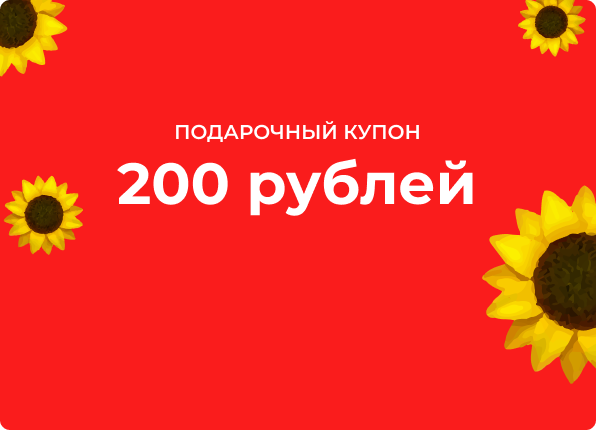
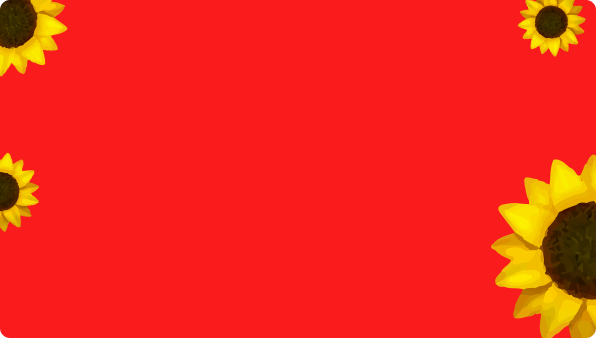
Замена банеров в 1 и 2 письмах

diff --git a/1/index.html b/1/index.html
@@ -3,9 +3,6 @@
 <head>
 	<meta http-equiv="Content-Type" content="text/html" charset="UTF-8">
 	<title>Podsolnuhh</title>
-	<style type="text/css">
-		/** {outline: 1px solid red;}*/
-	</style>
 </head>
 <body style="margin:0; padding:0;">
 	<table class="table_main" cellpadding="0" cellspacing="0" border="0" width="100%" background="http://sbweb.ru/podsolnuhh/body_bg.png" style=" margin:0; padding:0; background: #ffffff; background-image: url('http://sbweb.ru/podsolnuhh/body_bg.png'); background-repeat: no-repeat; -webkit-background-size: cover;
@@ -34,7 +31,7 @@
 						<td align="center" valign="top">
 							<table class="table_accost" cellpadding="0" cellspacing="0" border="0" width="100%" style="margin:0; padding:0; max-width: 100%; min-width: 100%; background: #ffffff; font-size: 16px;">
 								<tr>
-									<td width="35" style="width: 35px; max-width: 35px; min-width: 35px;">&nbsp;</td>
+									<td width="30" style="width: 30px; max-width: 30px; min-width: 30px;">&nbsp;</td>
 									<td width="380" style="width: 380px; max-width: 380px; min-width: 380px;">
 										<div height="20" style="height: 20px; line-height: 20px; font-size: 17px;">&nbsp;</div>
 										<p style="margin:0; padding:0; font-size: 18px; line-height: 137%; color: #435155; font-weight: 600; font-family: Arial, Tahoma, Geneva, sans-serif; ">Николай Атрашеквич, спасибо за покупку в нашем Интернет-магазине!</p>
@@ -44,19 +41,19 @@
 										<table cellpadding="0" cellspacing="0" border="0" width="280" style="margin:0; padding:0; max-width: 100%; min-width: 100%; background: #ffffff; font-size: 16px;">
 											<tr>
 												<td width="45" style="width: 45px; max-width: 45px; min-width: 45px;">
-													<a href="#" target="_blank">
+													<a href="https://podsolnuhh.ru/" target="_blank">
 														<img src="http://sbweb.ru/podsolnuhh/smile_badly.png" alt="Плохо" width="45" height="45" border="0" style="display: block; width: 45px; max-width: 45px; height: 45px">
 													</a>
 												</td>
 												<td width="20" style="width: 20px; max-width: 20px; min-width: 20px;">&nbsp;</td>
 												<td width="45" style="width: 45px; max-width: 45px; min-width: 45px;">
-													<a href="#" target="_blank">
+													<a href="https://podsolnuhh.ru/" target="_blank">
 														<img src="http://sbweb.ru/podsolnuhh/smile_normally.png" alt="Нормально" width="45" height="45" border="0" style="display: block; width: 45px; max-width: 45px; height: 45px">
 													</a>
 												</td>
 												<td width="20" style="width: 20px; max-width: 20px; min-width: 20px;">&nbsp;</td>
 												<td width="45" style="width: 45px; max-width: 45px; min-width: 45px;">
-													<a href="#" target="_blank">
+													<a href="https://podsolnuhh.ru/" target="_blank">
 														<img src="http://sbweb.ru/podsolnuhh/smile_fine.png" alt="Отлично" width="45" height="45" border="0" style="display: block; width: 45px; max-width: 45px; height: 45px">
 													</a>
 												</td>
@@ -72,15 +69,18 @@
 					</tr>
 					<tr>
 						<td align="center" valign="top">
-							<table class="table_coupon" cellpadding="0" cellspacing="0" border="0" width="100%" background="http://sbweb.ru/podsolnuhh/coupon_bg.png" style="margin:0; padding:0; max-width: 100%; min-width: 100%; border-radius: 7px; background: #fa1c1c; background-image: url('http://sbweb.ru/podsolnuhh/coupon_bg.png'); background-repeat: no-repeat; -webkit-background-size: cover; background-size: cover; font-size: 16px;">
+							<table class="table_coupon" cellpadding="0" cellspacing="0" border="0" width="100%" background="coupon_bg.png" style="margin:0; padding:0; max-width: 100%; min-width: 100%; border-radius: 7px; background-color: #fa1c1c; background-image: url('coupon_bg.png'); background-repeat: no-repeat; -webkit-background-size: cover; background-size: cover; font-size: 16px;">
 								<tr>
-									<td width="35" style="width: 35px; max-width: 35px; min-width: 35px;">&nbsp;</td>
-									<td>
-										<div height="305" style="height: 305px; line-height: 305px; font-size: 17px;">&nbsp;</div>
-										<p style="margin:0; padding:0; font-size: 16px; line-height: 18px; color: #ffffff; font-weight: 400; font-family: Arial, Tahoma, Geneva, sans-serif; ">Просто введите промо-код при оформлении заказа</p>
+									<td align="center" valign="top">
+										<div height="53" style="height: 53px; line-height: 53px; font-size: 17px;">&nbsp;</div>
+										<p style="margin:0; padding:0; font-size: 20px; line-height: 24px; color: #ffffff; font-weight: 600; text-transform: uppercase; text-align: center; font-family: Montserrat, Arial, Tahoma, Geneva, sans-serif; ">Подарочный купон</p>
+										<p style="margin:0; padding:0; font-size: 58px; line-height: 80px; color: #ffffff; font-weight: 600; text-transform: uppercase; text-align: center; font-family: Montserrat, Arial, Tahoma, Geneva, sans-serif; ">200 рублей</p>
+										<div height="21" style="height: 21px; line-height: 21px; font-size: 17px;">&nbsp;</div>
+										<p style="margin:0; padding:0; font-size: 20px; line-height: 138%; color: #ffffff; font-weight: 400; text-align: center; font-family: Arial, Tahoma, Geneva, sans-serif; ">Просто введите промо-код при <br> оформлении заказа</p>
 										<div height="20" style="height: 20px; line-height: 20px; font-size: 17px;">&nbsp;</div>	
 										<table cellpadding="0" cellspacing="0" border="0" width="100%" style="margin:0; padding:0; max-width: 100%; min-width: 100%; font-size: 16px;">
 											<tr>
+												<td width="120" style="width: 120px; max-width: 120px; min-width: 120px;">&nbsp;</td>
 												<td width="170" style="width: 170px; max-width: 170px; min-width: 170px;">
 													<p height="36" bgcolor="#ffffff" style="margin:0; padding:0; height: 36px; line-height: 36px; font-family: Arial, Tahoma, Geneva, sans-serif; font-size: 20px; color: #00b1e8; text-align: center; background-color: #ffffff; border-radius: 6px;">25 82 54 25 14</p>
 												</td>
@@ -93,16 +93,15 @@
 												<td></td>
 											</tr>
 										</table>
-										<div height="55" style="height: 55px; line-height: 55px; font-size: 17px;">&nbsp;</div>	
+										<div height="50" style="height: 50px; line-height: 50px; font-size: 17px;">&nbsp;</div>	
 									</td>
-									<td></td>
 								</tr>
 							</table>
 						</td>
 					</tr>
 					<tr>
 						<td align="center" valign="top">
-							<div height="35" style="height: 35px; line-height: 35px; font-size: 17px;">&nbsp;</div>
+							<div height="40" style="height: 40px; line-height: 40px; font-size: 17px;">&nbsp;</div>
 							<table cellpadding="0" cellspacing="0" border="0" width="100%" style="margin:0; padding:0; max-width: 100%; min-width: 100%; background: #ffffff; font-size: 16px;">
 								<tr>
 									<td width="35" style="width: 35px; max-width: 35px; min-width: 35px;">&nbsp;</td>

diff --git a/2/index.html b/2/index.html
@@ -3,9 +3,6 @@
 <head>
 	<meta http-equiv="Content-Type" content="text/html" charset="UTF-8">
 	<title>Podsolnuhh</title>
-	<style type="text/css">
-		/** {outline: 1px solid red;}*/
-	</style>
 </head>
 <body style="margin:0; padding:0;">
 	<table class="table_main" cellpadding="0" cellspacing="0" border="0" width="100%" background="http://sbweb.ru/podsolnuhh/body_bg.png" style=" margin:0; padding:0; background: #ffffff; background-image: url('http://sbweb.ru/podsolnuhh/body_bg.png'); background-repeat: no-repeat; -webkit-background-size: cover;
@@ -54,12 +51,14 @@
 					</tr>
 					<tr>
 						<td align="center" valign="top">
-							<table class="table_coupon" cellpadding="0" cellspacing="0" border="0" width="100%" background="coupon_bg.png" style="margin:0; padding:0; max-width: 100%; min-width: 100%; background: #9ac2ff; background-image: url('coupon_bg.png'); background-repeat: no-repeat; -webkit-background-size: cover; background-size: cover; font-size: 16px;">
+							<table class="table_coupon" cellpadding="0" cellspacing="0" border="0" width="100%" background="coupon_bg1.png" style="margin:0; padding:0; max-width: 100%; min-width: 100%; border-radius: 6px; background-color: #9ac2ff; background-image: url('coupon_bg.png'); background-repeat: no-repeat; -webkit-background-size: cover; background-size: cover; font-size: 16px;">
 								<tr>
-									<td width="35" style="width: 35px; max-width: 35px; min-width: 35px;">&nbsp;</td>
-									<td>
-										<div height="315" style="height: 315px; line-height: 315px; font-size: 17px;">&nbsp;</div>
-										<p style="margin:0; padding:0; font-size: 16px; line-height: 18px; color: #ffffff; font-weight: 400; font-family: Arial, Tahoma, Geneva, sans-serif; ">Просто введите промо-код при оформлении заказа</p>
+									<td width="30" style="width: 30px; max-width: 30px; min-width: 30px;">&nbsp;</td>
+									<td width="350" style="width: 350px; max-width: 350px; min-width: 350px;">
+										<div height="45" style="height: 45px; line-height: 45px; font-size: 17px;">&nbsp;</div>
+										<img src="coupon_image.png" alt="На следующий заказ дарим скидку 200 рублей"  style="margin:0; padding:0; font-size: 25px; letter-spacing: 1px; line-height: 36px; color: #ffffff; font-weight: 500; text-transform: uppercase; text-align: center; font-family: Oswald, Arial, Tahoma, Geneva, sans-serif; ">
+										<div height="20" style="height: 20px; line-height: 20px; font-size: 17px;">&nbsp;</div>
+										<p style="margin:0; padding:0; font-size: 20px; line-height: 138%; color: #ffffff; font-weight: 400; font-family: Arial, Tahoma, Geneva, sans-serif; ">Просто введите промо-код при оформлении заказа</p>
 										<div height="20" style="height: 20px; line-height: 20px; font-size: 17px;">&nbsp;</div>	
 										<table cellpadding="0" cellspacing="0" border="0" width="100%" style="margin:0; padding:0; max-width: 100%; min-width: 100%; font-size: 16px;">
 											<tr>
@@ -75,7 +74,7 @@
 												<td></td>
 											</tr>
 										</table>
-										<div height="60" style="height: 60px; line-height: 60px; font-size: 17px;">&nbsp;</div>	
+										<div height="50" style="height: 50px; line-height: 50px; font-size: 17px;">&nbsp;</div>	
 									</td>
 									<td></td>
 								</tr>

diff --git a/10/index.html b/10/index.html
@@ -3,9 +3,6 @@
 <head>
 	<meta http-equiv="Content-Type" content="text/html" charset="UTF-8">
 	<title>Podsolnuhh</title>
-	<style type="text/css">
-		/** {outline: 1px solid red;}*/
-	</style>
 </head>
 <body style="margin:0; padding:0;">
 	<table class="table_main" cellpadding="0" cellspacing="0" border="0" width="100%" background="http://sbweb.ru/podsolnuhh/body_bg.png" style=" margin:0; padding:0; background: #ffffff; background-image: url('http://sbweb.ru/podsolnuhh/body_bg.png'); background-repeat: no-repeat; -webkit-background-size: cover;

diff --git a/3/index.html b/3/index.html
@@ -3,9 +3,6 @@
 <head>
 	<meta http-equiv="Content-Type" content="text/html" charset="UTF-8">
 	<title>Podsolnuhh</title>
-	<style type="text/css">
-		/** {outline: 1px solid red;}*/
-	</style>
 </head>
 <body style="margin:0; padding:0;">
 	<table class="table_main" cellpadding="0" cellspacing="0" border="0" width="100%" background="http://sbweb.ru/podsolnuhh/body_bg.png" style=" margin:0; padding:0; background: #ffffff; background-image: url('http://sbweb.ru/podsolnuhh/body_bg.png'); background-repeat: no-repeat; -webkit-background-size: cover;

diff --git a/4/index.html b/4/index.html
@@ -3,9 +3,6 @@
 <head>
 	<meta http-equiv="Content-Type" content="text/html" charset="UTF-8">
 	<title>Podsolnuhh</title>
-	<style type="text/css">
-		/** {outline: 1px solid red;}*/
-	</style>
 </head>
 <body style="margin:0; padding:0;">
 	<table class="table_main" cellpadding="0" cellspacing="0" border="0" width="100%" background="http://sbweb.ru/podsolnuhh/body_bg.png" style=" margin:0; padding:0; background: #ffffff; background-image: url('http://sbweb.ru/podsolnuhh/body_bg.png'); background-repeat: no-repeat; -webkit-background-size: cover;

diff --git a/5/index.html b/5/index.html
@@ -3,9 +3,6 @@
 <head>
 	<meta http-equiv="Content-Type" content="text/html" charset="UTF-8">
 	<title>Podsolnuhh</title>
-	<style type="text/css">
-		/** {outline: 1px solid red;}*/
-	</style>
 </head>
 <body style="margin:0; padding:0;">
 	<table class="table_main" cellpadding="0" cellspacing="0" border="0" width="100%" background="http://sbweb.ru/podsolnuhh/body_bg.png" style=" margin:0; padding:0; background: #ffffff; background-image: url('http://sbweb.ru/podsolnuhh/body_bg.png'); background-repeat: no-repeat; -webkit-background-size: cover;

diff --git a/6/index.html b/6/index.html
@@ -3,9 +3,6 @@
 <head>
 	<meta http-equiv="Content-Type" content="text/html" charset="UTF-8">
 	<title>Podsolnuhh</title>
-	<style type="text/css">
-		/** {outline: 1px solid red;}*/
-	</style>
 </head>
 <body style="margin:0; padding:0;">
 	<table class="table_main" cellpadding="0" cellspacing="0" border="0" width="100%" background="http://sbweb.ru/podsolnuhh/body_bg.png" style=" margin:0; padding:0; background: #ffffff; background-image: url('http://sbweb.ru/podsolnuhh/body_bg.png'); background-repeat: no-repeat; -webkit-background-size: cover;

diff --git a/7/index.html b/7/index.html
@@ -3,9 +3,6 @@
 <head>
 	<meta http-equiv="Content-Type" content="text/html" charset="UTF-8">
 	<title>Podsolnuhh</title>
-	<style type="text/css">
-		/** {outline: 1px solid red;}*/
-	</style>
 </head>
 <body style="margin:0; padding:0;">
 	<table class="table_main" cellpadding="0" cellspacing="0" border="0" width="100%" background="http://sbweb.ru/podsolnuhh/body_bg.png" style=" margin:0; padding:0; background: #ffffff; background-image: url('http://sbweb.ru/podsolnuhh/body_bg.png'); background-repeat: no-repeat; -webkit-background-size: cover;

diff --git a/8/index.html b/8/index.html
@@ -3,9 +3,6 @@
 <head>
 	<meta http-equiv="Content-Type" content="text/html" charset="UTF-8">
 	<title>Podsolnuhh</title>
-	<style type="text/css">
-		/** {outline: 1px solid red;}*/
-	</style>
 </head>
 <body style="margin:0; padding:0;">
 	<table class="table_main" cellpadding="0" cellspacing="0" border="0" width="100%" background="http://sbweb.ru/podsolnuhh/body_bg.png" style=" margin:0; padding:0; background: #ffffff; background-image: url('http://sbweb.ru/podsolnuhh/body_bg.png'); background-repeat: no-repeat; -webkit-background-size: cover;

diff --git a/9/index.html b/9/index.html
@@ -3,9 +3,6 @@
 <head>
 	<meta http-equiv="Content-Type" content="text/html" charset="UTF-8">
 	<title>Podsolnuhh</title>
-	<style type="text/css">
-		/** {outline: 1px solid red;}*/
-	</style>
 </head>
 <body style="margin:0; padding:0;">
 	<table class="table_main" cellpadding="0" cellspacing="0" border="0" width="100%" background="http://sbweb.ru/podsolnuhh/body_bg.png" style=" margin:0; padding:0; background: #ffffff; background-image: url('http://sbweb.ru/podsolnuhh/body_bg.png'); background-repeat: no-repeat; -webkit-background-size: cover;
